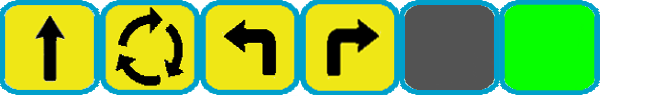
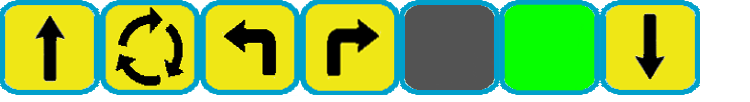
Hud finished

diff --git a/Codey-The-Robot/Hud.cpp b/Codey-The-Robot/Hud.cpp
@@ -28,9 +28,9 @@ Hud::Hud(Graphics& graphics, int x, int y, std::shared_ptr<ControlledSprite> pla
 
 	// lets just hardcode this for now
 	availableCommands = std::vector<CommandAction>{CommandAction::MOVE_FORWARD, CommandAction::TURN_LEFT, CommandAction::TURN_RIGHT,
-	CommandAction::LOOP};
+		CommandAction::LOOP};
 	setPlayer(player);
-	
+
 	insertMode = InsertMode::MAIN;
 	loopLocation = 0;
 
@@ -44,7 +44,7 @@ Hud::~Hud()
 void Hud::draw(Graphics& graphics){
 	sprite->draw(graphics, PosX, PosY, HUD_WIDTH, HUD_HEIGHT);
 	clickableCommands.clear();
-	
+
 	SDL_Rect rect = player->clickRectangle();
 	graphics.drawRectangle(&rect);
 
@@ -66,7 +66,7 @@ void Hud::draw(Graphics& graphics){
 	x = 666;
 	y = 20;
 	count = 0;
-	int commandLocation =0;
+	int commandLocation = 0;
 	std::list < std::shared_ptr<Command>>* commands = player->getCommands();
 
 	for (std::shared_ptr<Command> command : *commands){
@@ -79,10 +79,16 @@ void Hud::draw(Graphics& graphics){
 				y += BUTTON_SIZE + 10;
 			}
 			makeAndDrawButton(graphics, x, y, BUTTON_SIZE, BUTTON_SIZE, *buttons[CommandAction::LOOP], loopCommand);
-			graphics.renderText("start:", x + BUTTON_SIZE + BUTTON_SIZE/4 , y - 5, BUTTON_SIZE);
+			graphics.renderText("start:", x + BUTTON_SIZE + BUTTON_SIZE / 4, y - 5, BUTTON_SIZE);
 
 
-			graphics.renderText(std::to_string(loopCommand->getLoops()+1), x + BUTTON_SIZE * 4, y - 5, BUTTON_SIZE);
+			graphics.renderText(std::to_string(loopCommand->getLoops() + 1), x + BUTTON_SIZE * 5, y - 5, BUTTON_SIZE);
+
+			makeAndDrawButton(graphics, x + BUTTON_SIZE * 4, y, BUTTON_SIZE / 1.5, BUTTON_SIZE, *buttons[CommandAction::LOOP_UP],
+				std::shared_ptr<Command>(new Command(CommandAction::LOOP_UP)));
+			makeAndDrawButton(graphics, x + BUTTON_SIZE * 6, y, BUTTON_SIZE / 1.5, BUTTON_SIZE, *buttons[CommandAction::LOOP_DOWN],
+				std::shared_ptr<Command>(new Command(CommandAction::LOOP_DOWN)));
+
 
 			y += BUTTON_SIZE + 10;
 
@@ -100,7 +106,7 @@ void Hud::draw(Graphics& graphics){
 				makeAndDrawButton(graphics, x, y, BUTTON_SIZE, BUTTON_SIZE, *buttons[CommandAction::NONE_SELECTED], nullptr);
 			}
 			else {
-				makeAndDrawButton(graphics, x, y, BUTTON_SIZE, BUTTON_SIZE, *buttons[CommandAction::NONE],nullptr);
+				makeAndDrawButton(graphics, x, y, BUTTON_SIZE, BUTTON_SIZE, *buttons[CommandAction::NONE], nullptr);
 			}
 
 			y += BUTTON_SIZE + 10;
@@ -110,7 +116,7 @@ void Hud::draw(Graphics& graphics){
 			y += BUTTON_SIZE + 10;
 		}
 		else {
-			makeAndDrawButton(graphics, x, y, BUTTON_SIZE, BUTTON_SIZE, *buttons[command->getCommand()],command);
+			makeAndDrawButton(graphics, x, y, BUTTON_SIZE, BUTTON_SIZE, *buttons[command->getCommand()], command);
 
 			x += BUTTON_SIZE + 10;
 			count++;
@@ -122,16 +128,16 @@ void Hud::draw(Graphics& graphics){
 		commandLocation++;
 	}
 	if (insertMode == InsertMode::MAIN){
-		makeAndDrawButton(graphics, x, y, BUTTON_SIZE, BUTTON_SIZE, *buttons[CommandAction::NONE_SELECTED],nullptr);
+		makeAndDrawButton(graphics, x, y, BUTTON_SIZE, BUTTON_SIZE, *buttons[CommandAction::NONE_SELECTED], nullptr);
 	}
 	else {
-		makeAndDrawButton(graphics, x, y, BUTTON_SIZE, BUTTON_SIZE, *buttons[CommandAction::NONE],nullptr);
+		makeAndDrawButton(graphics, x, y, BUTTON_SIZE, BUTTON_SIZE, *buttons[CommandAction::NONE], nullptr);
 	}
 }
 
 
 void Hud::makeAndDrawButton(Graphics& graphics, int x, int y, int w, int h, Sprite& sprite, std::shared_ptr<Command> command) {
-	HudButton temp = HudButton(sprite, Rectangle(x, y, w, h),command);
+	HudButton temp = HudButton(sprite, Rectangle(x, y, w, h), command);
 	clickableCommands.push_back(temp);
 	sprite.draw(graphics, x, y, w, h);
 }
@@ -188,19 +194,32 @@ bool Hud::click(std::tuple<int, int> clicked) {
 						loopIndex = -1;
 					}
 				}
-				if (thingy.isClicked(x, y) ){
+				if (thingy.isClicked(x, y)){
 					printf("%d\n", commandIndex);
 					if (index == clickableCommands.size() - 1) {
 						insertMode = InsertMode::MAIN;
 					}
 					else if (inLoop) {
-						if (loopIndex == loopCommand->size()){
+						if (thingy.command != nullptr) {
+							if (thingy.command->getCommand() == CommandAction::LOOP_DOWN) {
+								loopCommand->decreaseLoops();
+							}
+							else if (thingy.command->getCommand() == CommandAction::LOOP_UP) {
+								loopCommand->increaseLoops();
+							}
+							else {
+								player->removeCommand(commandIndex);
+								insertMode = InsertMode::MAIN;
+							}
+						}
+						else if (loopIndex == loopCommand->size() + 2){
 							insertMode = InsertMode::LOOP;
 							loopLocation = commandIndex;
 						}
 						else if (loopIndex != -1) {
 							loopCommand->removeCommand(loopIndex);
 						}
+
 						else {
 							player->removeCommand(commandIndex);
 							insertMode = InsertMode::MAIN;
@@ -217,7 +236,7 @@ bool Hud::click(std::tuple<int, int> clicked) {
 				}
 				index++;
 				commandIndex++;
-				
+
 			}
 		}
 	}
@@ -233,6 +252,9 @@ void Hud::initializeSprites(Graphics& graphics) {
 	buttons[CommandAction::TURN_LEFT] = std::unique_ptr<Sprite>(new Sprite(graphics, BUTTON_FILE_PATH, BUTTON_WIDTH * 2, 0, BUTTON_WIDTH, BUTTON_HEIGHT));
 	buttons[CommandAction::NONE] = std::unique_ptr<Sprite>(new Sprite(graphics, BUTTON_FILE_PATH, BUTTON_WIDTH * 4, 0, BUTTON_WIDTH, BUTTON_HEIGHT));
 	buttons[CommandAction::NONE_SELECTED] = std::unique_ptr<Sprite>(new Sprite(graphics, BUTTON_FILE_PATH, BUTTON_WIDTH * 5, 0, BUTTON_WIDTH, BUTTON_HEIGHT));
+
+	buttons[CommandAction::LOOP_UP] = std::unique_ptr<Sprite>(new Sprite(graphics, BUTTON_FILE_PATH, BUTTON_WIDTH * 0, 0, BUTTON_WIDTH, BUTTON_HEIGHT));
+	buttons[CommandAction::LOOP_DOWN] = std::unique_ptr<Sprite>(new Sprite(graphics, BUTTON_FILE_PATH, BUTTON_WIDTH * 6, 0, BUTTON_WIDTH, BUTTON_HEIGHT));
 
 }
 

diff --git a/Codey-The-Robot/LoopCommand.cpp b/Codey-The-Robot/LoopCommand.cpp
@@ -31,6 +31,14 @@ int LoopCommand::getLoops() {
 	return repeatAmount;
 }
 
+void LoopCommand::decreaseLoops() {
+	repeatAmount--;
+}
+
+void LoopCommand::increaseLoops() {
+	repeatAmount++;
+}
+
 void LoopCommand::restart() {
 	amountLeft = repeatAmount;
 	commands.restart();

diff --git a/Codey-The-Robot/LoopCommand.h b/Codey-The-Robot/LoopCommand.h
@@ -16,6 +16,9 @@ public:
 	int size();
 	int getLoops();
 
+	void increaseLoops();
+	void decreaseLoops();
+
 	void removeCommand(int index);
 protected:
 	CommandAction command;

diff --git a/Codey-The-Robot/Commands.h b/Codey-The-Robot/Commands.h
@@ -6,6 +6,8 @@ enum class CommandAction {
 		MOVE_FORWARD , 
 		LOOP,
 		NONE_SELECTED,
+		LOOP_UP,
+		LOOP_DOWN,
 		NONE
 };
 
